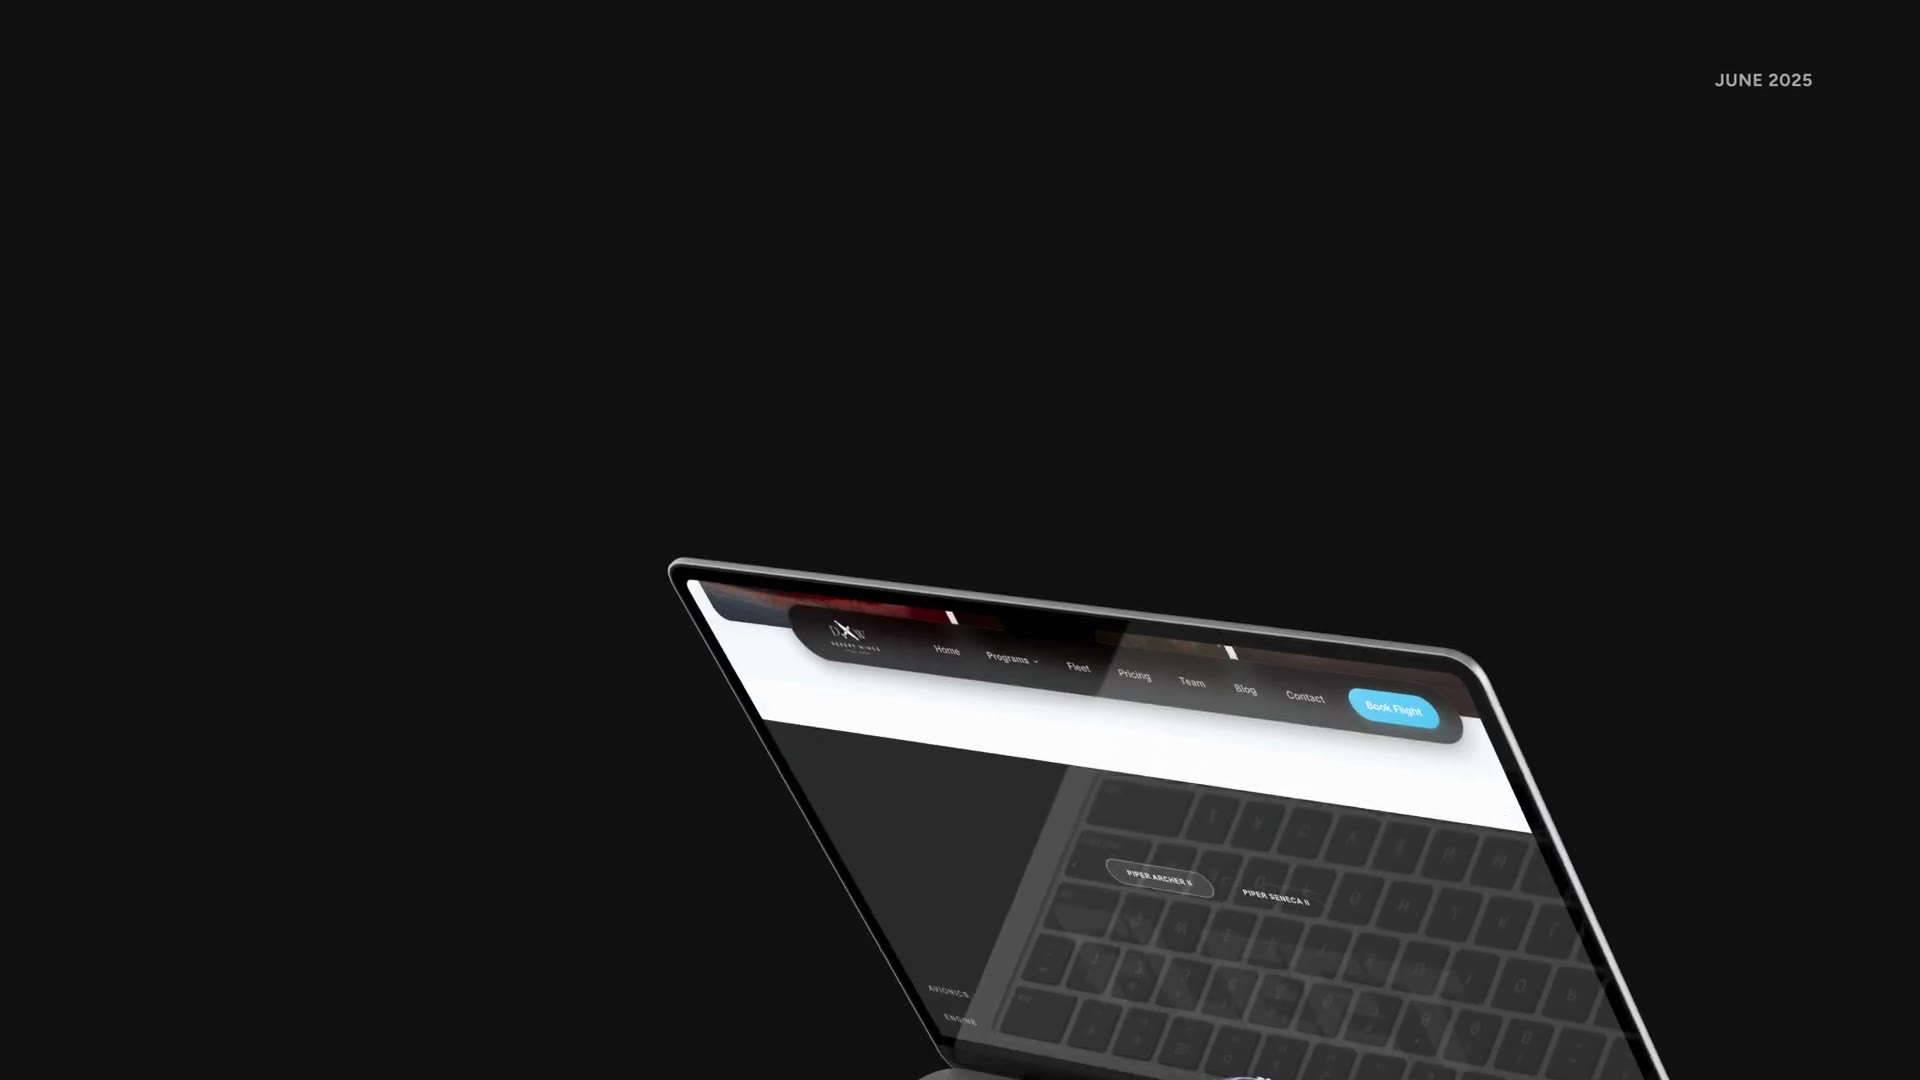
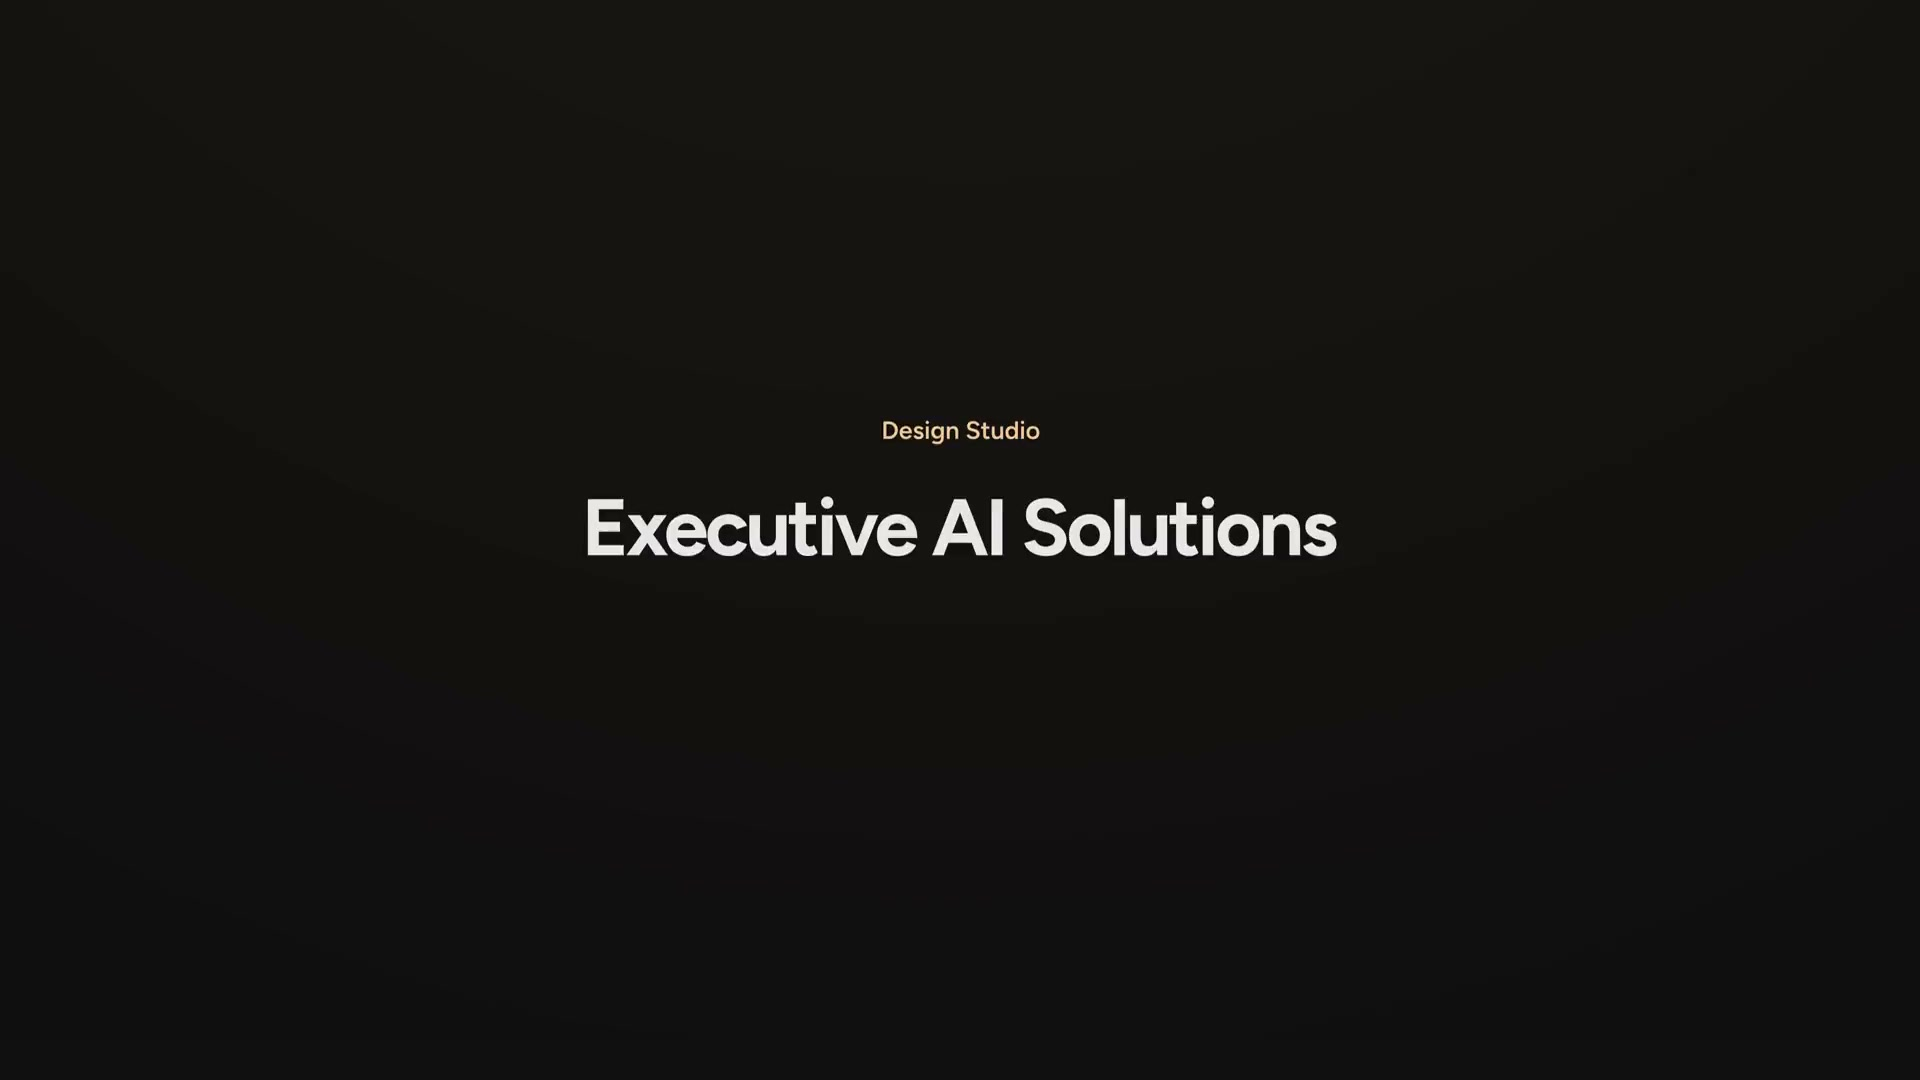
§01: the reel fetches with priority, preload auto, poster from frame 0
From production-stack/references/video.md (cosmos + itsjay decoded:
'playing' at 600–700ms under a frame-exact poster). Measured here on a
production build at 4 Mbps/100ms: 1.67s with and without the change —
bandwidth-bound, not priority-bound — so the edits are kept for the
edge case, and the poster is now frame 0 of the shipped file. Adds
scripts/video-timing.mjs (cold context, CDP throttle).

Changed region(s): [[0.2812, 0.4583, 0.875, 1.0], [0.4688, 0.3667, 0.5312, 0.4278], [0.9062, 0.0611, 0.9375, 0.0917]]

diff --git a/app/layout.tsx b/app/layout.tsx
@@ -85,6 +85,18 @@ export default function RootLayout({
   return (
     <html lang="en" className={`${bricolage.variable} ${instrument.variable}`} suppressHydrationWarning>
       <head>
+        {/* THE REEL FETCHES FIRST. `fetchpriority` is not a valid attribute on
+            <video>/<source>, so the hero film's priority is granted here: the
+            preload scanner finds this before it parses the body, and the
+            bytes arrive beside the fonts instead of after the scripts
+            (production-stack/references/video.md). MEASURED, production
+            build, 4 Mbps / 100ms RTT: `playing` at 1.67s with and without
+            this — the reel is bandwidth-bound (885 KB), not priority-bound;
+            on a fast line it is ~180ms either way. Kept because it costs
+            nothing and removes the one case where priority would matter
+            (a slow line with heavy scripts ahead of the film). What makes it
+            read as instant is the poster being frame 0 of the shipped file. */}
+        <link rel="preload" as="video" href="/dark/reel-film.mp4" type="video/mp4" fetchPriority="high" />
         {/* load gate: pre-hide entrance elements + start every reload at the top */}
         <script
           dangerouslySetInnerHTML={{

diff --git a/app/page.tsx b/app/page.tsx
@@ -369,7 +369,7 @@ export default function DarkRoom() {
               muted
               playsInline
               poster="/dark/reel-film-poster.jpg"
-              preload="metadata"
+              preload="auto"
               aria-label="Recent Executive AI Solutions client work"
             >
               <source src="/dark/reel-film.mp4" type="video/mp4" />

diff --git a/design-dna/decisions.md b/design-dna/decisions.md
@@ -118,3 +118,4 @@ silently overriding a prior call.
 - 2026-09-14 · THE STATEMENT AFTER THE FILM — About back in slot two, restaged (Jake: "both itsjay and cosmos have about after the hero or something i wonder why" → "yes do that"). Measured on both sites: what follows their hero is not an about but a POSITIONING sentence — Cosmos "WE ARE — UI/UX design agency that keeps your product growing…" (its About Us is section five), itsjay "MYSELF — …I craft smooth, interactive experiences" — set where attention is highest, and it is what stands between the reel and the work cards so they do not read as a repeat. Ours says the two things the hero does not: "Websites, ads and follow-up for owner-run businesses — built by the person you talk to." (14 words, three lines at --fs-feature — the display rung ran to four), kicker "What this is", the 28-word paragraph under it unchanged. Order: hero → statement → §02 → proof → voices. Supersedes the same-day move of About after §02 (f711396): the fix was the sentence, not the slot.
 - 2026-09-14 · §02 · THE OFFER — the statement and the three services in one view (Jake, with danielsnows.framer.website: "a centered approach thing like this and then just having services underneath compared to what we have now" → "go"). Kept from the reference: the shape — a centred caps headline, a grey line under it, 01—02—03, three columns. Not kept: the glass icons (the columns carry the still photographs of the real screens), and the voice (the headline is in the hero's condensed caps so it echoes "DESIGN THAT SELLS"). "WEBSITES, AUTOMATION AND ADS / FOR OWNER-RUN BUSINESSES." — 7vw, two lines, its nouns are the columns in the list's own order; under it "Built by the person you talk to…" at reading size, 52ch. The head is on the ground, OUTSIDE the card's climb wrapper (the climb is measured on the wrapper's top, which must stay the card's top); the space under it is --rise-d + 24 so the climb closes it without covering the paragraph. The dark card keeps its arrival, climb, grow and exit, and now starts ON the column (--s0 = the column fraction, the 84% cap gone) and grows to the gutters. Inside: the path (numerals on ink discs joined by an .18 line — a diagram, not a divider), three columns each a link (well 4:3 · stage · two-line title as authored · label · price), the witness centred under. RETIRED: the split About (its phone was a placeholder), the word-ramp statement with the converging marks, the stacked rows with the spotlight/lens/ride and the phone trays (2026-09-06 — built for stacked rows, no place in three side by side); their CSS is still in room.css, dead, for a cleanup pass. Frames: offer-final (desktop), offer-mobile.
 - 2026-09-15 · §01 · GROW, THEN LEAVE (Jake, with danielsnows' hero: "do you think the video effect is too much … has a pretty simple video in hero and it looks nice" → A). Measured theirs: 1380 wide, square corners, below the fold, a 10% parallax and nothing else. Ours keeps the grow — the page's one scroll payoff, the one moment the work is the whole screen — and loses the hold and the shrink-in-place, which were a pin in everything but name: 0.45vh of film choreography between the scroll and the first sentence. Now the reel is the screen at 0.9vh and scrolls off at 1:1, full width, and the offer head starts exactly under its bottom edge (the dock's padding puts the flow box's bottom at page 1.9vh). One number, --p; the --q window, --qs, the pin term and the 24px end radius are gone. d5886f6 has the pinned version. Frames: leave-sheet.
+- 2026-09-16 · §01 · THE REEL'S LOAD, MEASURED (Jake: cosmos/itsjay "have videos in hero that are playing as soon as you enter the browser, there's no still image for a couple seconds"). production-stack/references/video.md decoded both live: they reach `playing` at 600–700ms under a frame-exact poster — that is the bar, not zero. Ours, production build, throttled to 4 Mbps/100ms: `playing` at 1.67s before AND after `preload="auto"` + `<link rel=preload as=video fetchpriority=high>` — bandwidth-bound (885 KB), not priority-bound; on a fast line ~180ms. The two edits are kept (no cost, one edge case covered); the poster is regenerated from frame 0 of the shipped MP4 so the poster→video swap cannot pop. scripts/video-timing.mjs measures it (cold context, CDP throttle, listeners via init script). OPEN: a smaller phone source via `<source media>` would cut the phone's number; WebKit may pause an autoplaying video it judges off-screen — the reel's flow box IS below the fold (it is transformed into the hero) — verify on a real iPhone/iPad.
